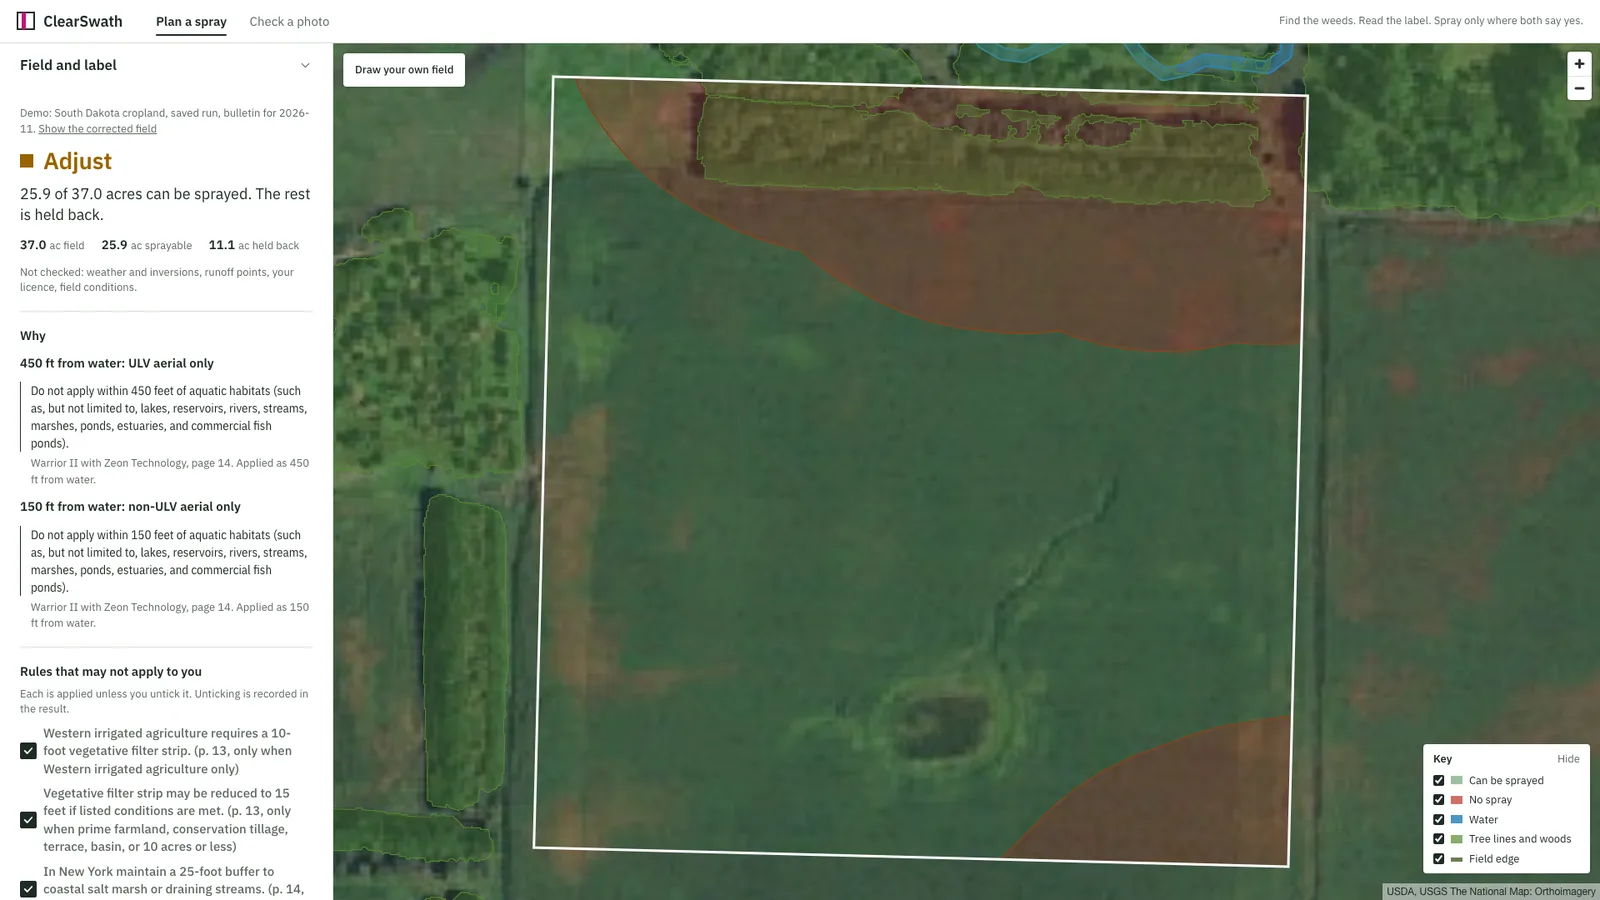
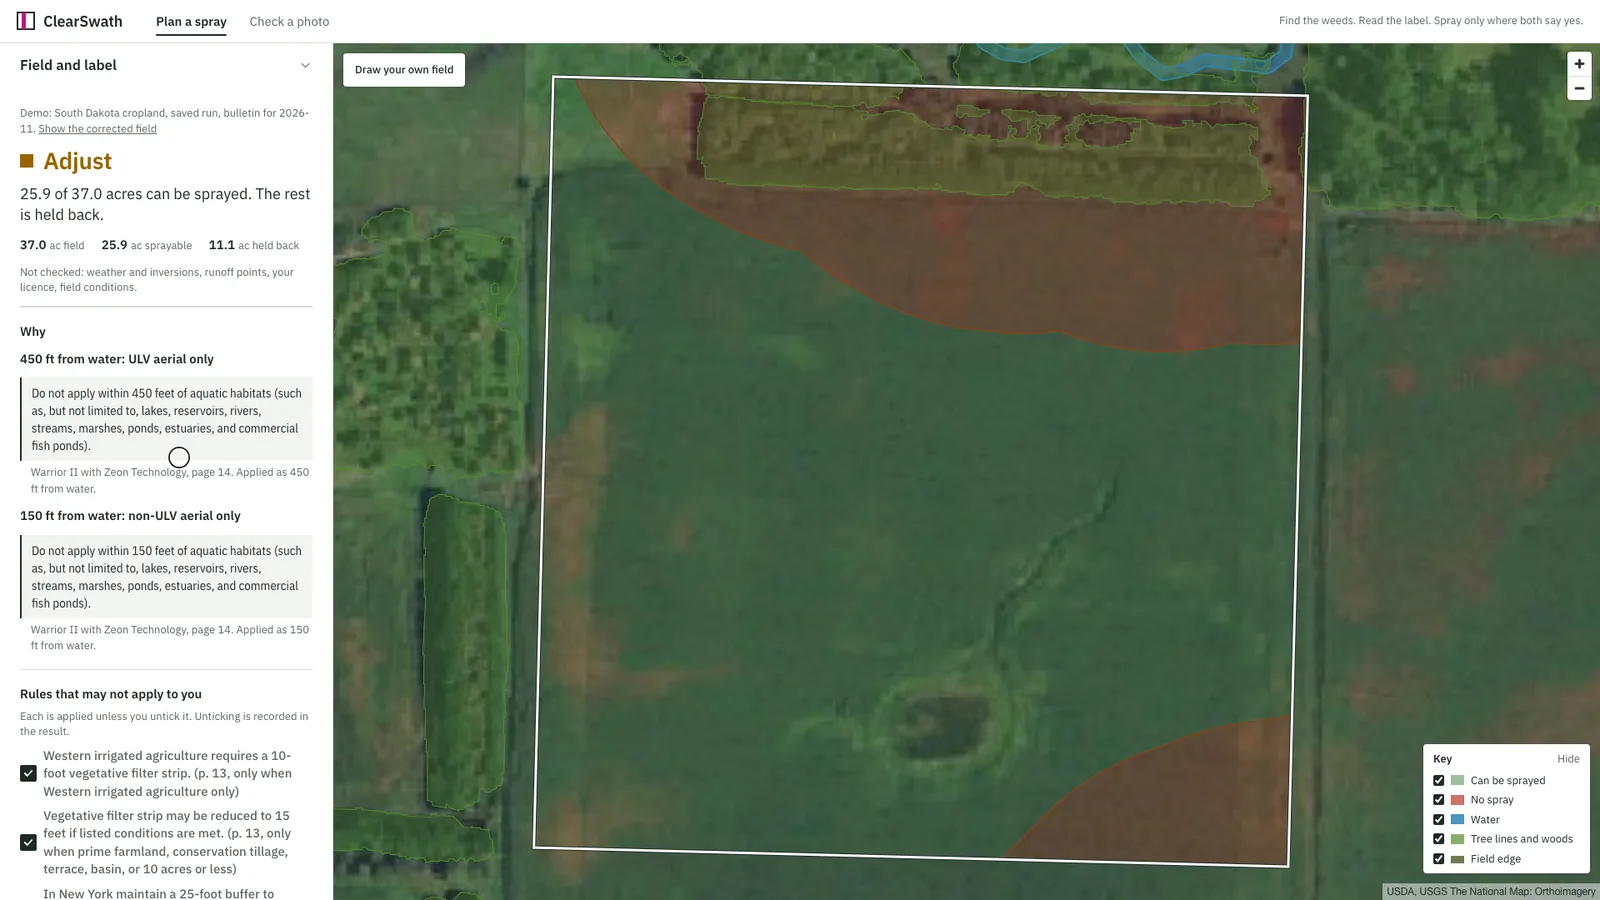
docs: README first screen from the README team's review

Changed region(s): [[0.0, 0.3422, 0.1875, 1.0], [0.9062, 0.84, 0.9688, 0.9644]]

diff --git a/README.md b/README.md
@@ -5,8 +5,13 @@
 **Try it: [clearswath.onrender.com](https://clearswath.onrender.com)** (free hosting: the first visit after a quiet spell
 can take a minute to wake up).
 
+Decision support, not clearance to spray: it checks the rules it lists, and the applicator decides. Both demos replay
+saved real runs; the DJI file is a planning file, not flight-tested; the video's narration is a disclosed synthetic
+voice.
+
 **Two minutes, no sign-up:**
-1. Press **Explore the Montana example**: a saved real run opens on the drone image, with the cells to spot spray.
+1. Press **Explore the Montana example**: a saved real run opens on the drone image: **Adjust**, 9.7 of 24.1 acres
+   to spot spray.
 2. Click a spot on the map: a card quotes the label sentence that holds it back, with its page, or says nothing
    checked does.
 3. Scroll to **Application record**: a saved voice note filled it. Then follow **Show the South Dakota cropland
@@ -14,8 +19,8 @@ can take a minute to wake up).
 
 A pesticide label is a legal document, often dozens of pages (the two here run 30 and 61): setbacks from water, wind
 limits, rates, endangered-species bulletins. A drone can now spray single patches of weeds, but it doesn't read the
-label. ClearSwath does. Give it
-a field, the label PDF and a drone weed map. It returns:
+label. ClearSwath does: Muse Spark reads the label into rules, and code keeps only the rules whose sentence is on the
+page. Give it a field, the label PDF and a drone weed map. It returns:
 
 - **a decision** (No conflicts in checked rules, Adjust, or Do not spray), each reason with the label sentence it
   comes from, quoted word for word and checked against the PDF;
@@ -54,15 +59,18 @@ Press **Explore the Montana example**. The demos replay saved real runs, so they
 
 Live runs on your own field and label need an access code: 3 per address per day, within a $5 daily model budget.
 
-Run it yourself (Python 3.12, [uv](https://docs.astral.sh/uv/), Node 22):
+Run it yourself (Python 3.12, [uv](https://docs.astral.sh/uv/), Node 22). The demos need no keys:
 
 ```sh
 uv sync
-cd web-app && npm ci && npm run build && cd ..   # the page, built into web/dist
-cp .env.example .env        # add MODEL_API_KEY (Meta Model API); BASETEN_API_KEY for Muse Spark Open
-uv run uvicorn app.api:app  # then open http://localhost:8000
-uv run pytest               # no test calls the network or a model
+(cd web-app && npm ci && npm run build)   # the page, built into web/dist
+uv run pytest                             # offline: no test calls a network or a model
+uv run uvicorn app.api:app                # then open http://localhost:8000
 ```
+
+Live runs on your own field call the Meta Model API: copy `.env.example` to `.env`, add `MODEL_API_KEY` (and
+`BASETEN_API_KEY` for Muse Spark Open), and set `ACCESS_CODE` (16 characters or more). Checked on a fresh clone,
+2026-11-03.
 
 ## How it decides
 
@@ -124,6 +132,7 @@ shrubs and water; Microsoft building footprints). Full tables in `evals/results_
 | Water: precision | 95% | (text prompts kept for water) |
 
 SAM 3.1 can't find a shelterbelt from the air by name, but outlines one closely from a box. Wonder supplies the boxes.
+On the same 20 tiles, Wonder + SAM's mean precision is 57% (`docs/STATUS.md`).
 Wonder's results vary between runs on a single tile, and the truth is 10 m data from 2021, so these are rough numbers.
 
 ## Weed results
@@ -144,9 +153,12 @@ On the Montana block the spurge model is tuned to catch 85% of the spurge plots 
 the four clusters inside the block, which it never saw, it found 90% of spurge plots and flagged 10% of clean ones,
 and it sprays 40% of the block (1 m cells). Catching more costs more: tuned to 90%, it finds 94% and sprays 68%.
 The app states the catch rate next to the map. Frozen DINOv2 features alone sprayed 68% to find 81%.
+The PhenoBench range needs the 50 labelled tiles from the date sprayed: on the seedling date, a head tuned on later
+dates misses 43% of weed pixels (`evals/results_phenobench.md`).
 
 Muse Spark Open was also tried as a reviewer of the photo mode's weed patches. On CoFly it called real weeds bare
 soil and agreed with the ground truth only 52% of the time, so it is not in the app (`evals/results_patch_review.md`).
+As a label reader it treats Warrior II's ULV-only 450 ft buffer as always on, so the demos keep Muse Spark 1.3's reads.
 
 ## Limits
 
@@ -166,7 +178,7 @@ Third-party parts are the datasets, models and libraries credited below. Hunter 
 (Anthropic) as the coding agent. The weed models were trained on Modal; the demo video is cut, scored and mixed by
 `scripts/cut_video.py` and `scripts/score_video.py` from the app's own recorded takes, with original generated music.
 The narration is a synthetic voice (Kokoro-82M, Apache-2.0, `scripts/narrate_video.py`), not Hunter's; its
-intelligibility was checked by transcribing the final mix with Muse Voice Transcribe (97% of script words heard).
+intelligibility was checked by transcribing the final mix with Muse Voice Transcribe.
 
 ## Data and credits
 
@@ -178,20 +190,6 @@ intelligibility was checked by transcribing the final mix with Muse Voice Transc
 - ESA WorldCover 2021 (CC BY 4.0) and Microsoft Global ML Building Footprints (ODbL), for the hazard eval only.
 - The page is built on Meta's Astryx design system with StyleX. MapLibre GL JS (BSD-3-Clause); React, react-map-gl,
   Terra Draw, Astryx and StyleX (MIT); IBM Plex (SIL Open Font License).
-
-## Run it locally
-
-Needs Python 3.12 with [uv](https://docs.astral.sh/uv/) and Node 22 (as in the Dockerfile). The demos need no keys.
-
-```sh
-uv sync
-(cd web-app && npm ci && npm run build)
-uv run pytest                       # offline: no test calls a network or a model
-uv run uvicorn app.api:app          # http://127.0.0.1:8000
-```
-
-Live runs on your own field call the Meta Model API: copy `.env.example` to `.env`, add `MODEL_API_KEY`, and set
-`ACCESS_CODE` (16 characters or more) to open them. Checked on a fresh clone, 2026-11-03.
 
 ## Repository
 
